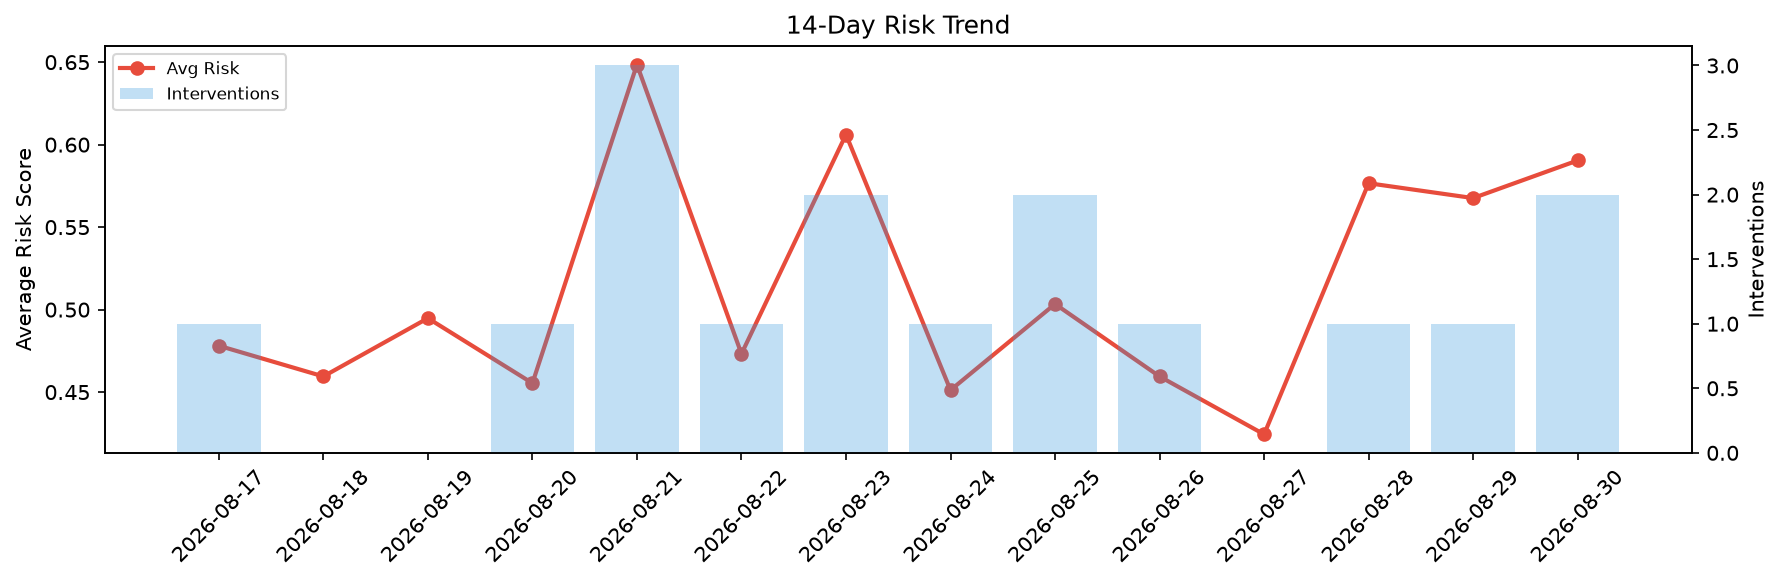
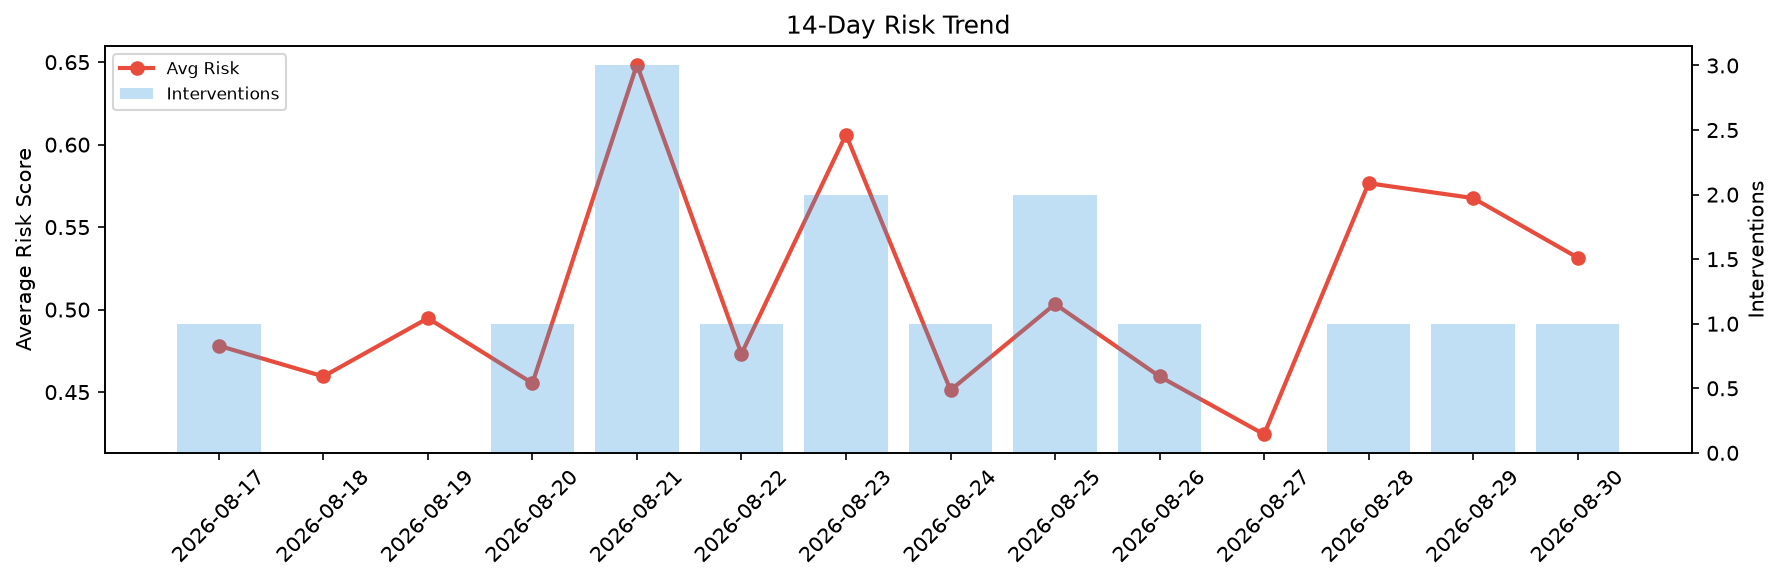
agent-improvement: daily cycle 2026-08-30T22:43

Changed region(s): [[0.8329, 0.2474, 0.9254, 0.5567]]

diff --git a/logs/2026-08-30.md b/logs/2026-08-30.md
@@ -1,6 +1,6 @@
 # Agent Improvement Report — 2026-08-30
 
-**Cycle ID:** `3eef1a25` | **Avg Risk:** 0.5904 | **Interventions:** 2/4
+**Cycle ID:** `993d1c39` | **Avg Risk:** 0.5315 | **Interventions:** 1/4
 
 ![Dashboard](2026-08-30_dashboard.png)
 
@@ -10,18 +10,18 @@
 
 | Domain | Risk Score | Decision | Alerts |
 |--------|-----------|----------|--------|
-| code_review | 0.6235 | intervene | complexity, coverage |
-| incident_response | 0.6834 | intervene | severity |
-| data_pipeline | 0.5509 | monitor | none |
-| deployment | 0.5039 | monitor | rollback_rate |
+| code_review | 0.7678 | intervene | complexity, coverage |
+| incident_response | 0.5829 | monitor | blast_radius |
+| data_pipeline | 0.3683 | monitor | none |
+| deployment | 0.4072 | monitor | rollback_rate |
 
 ## Delta vs Yesterday
 
 | Domain | Today | Yesterday | Change |
 |--------|-------|-----------|--------|
-| code_review | 0.6235 | 0.5603 | 📈 11.3% |
-| incident_response | 0.6834 | 0.7049 | 📉 -3.1% |
-| data_pipeline | 0.5509 | 0.536 | 📈 2.8% |
-| deployment | 0.5039 | 0.4693 | 📈 7.4% |
+| code_review | 0.7678 | 0.5603 | 📈 37.0% |
+| incident_response | 0.5829 | 0.7049 | 📉 -17.3% |
+| data_pipeline | 0.3683 | 0.536 | 📉 -31.3% |
+| deployment | 0.4072 | 0.4693 | 📉 -13.2% |
 
 **Refinement:** `{'adjustment': 'maintain', 'trend': 'improving', 'window': 4}`
